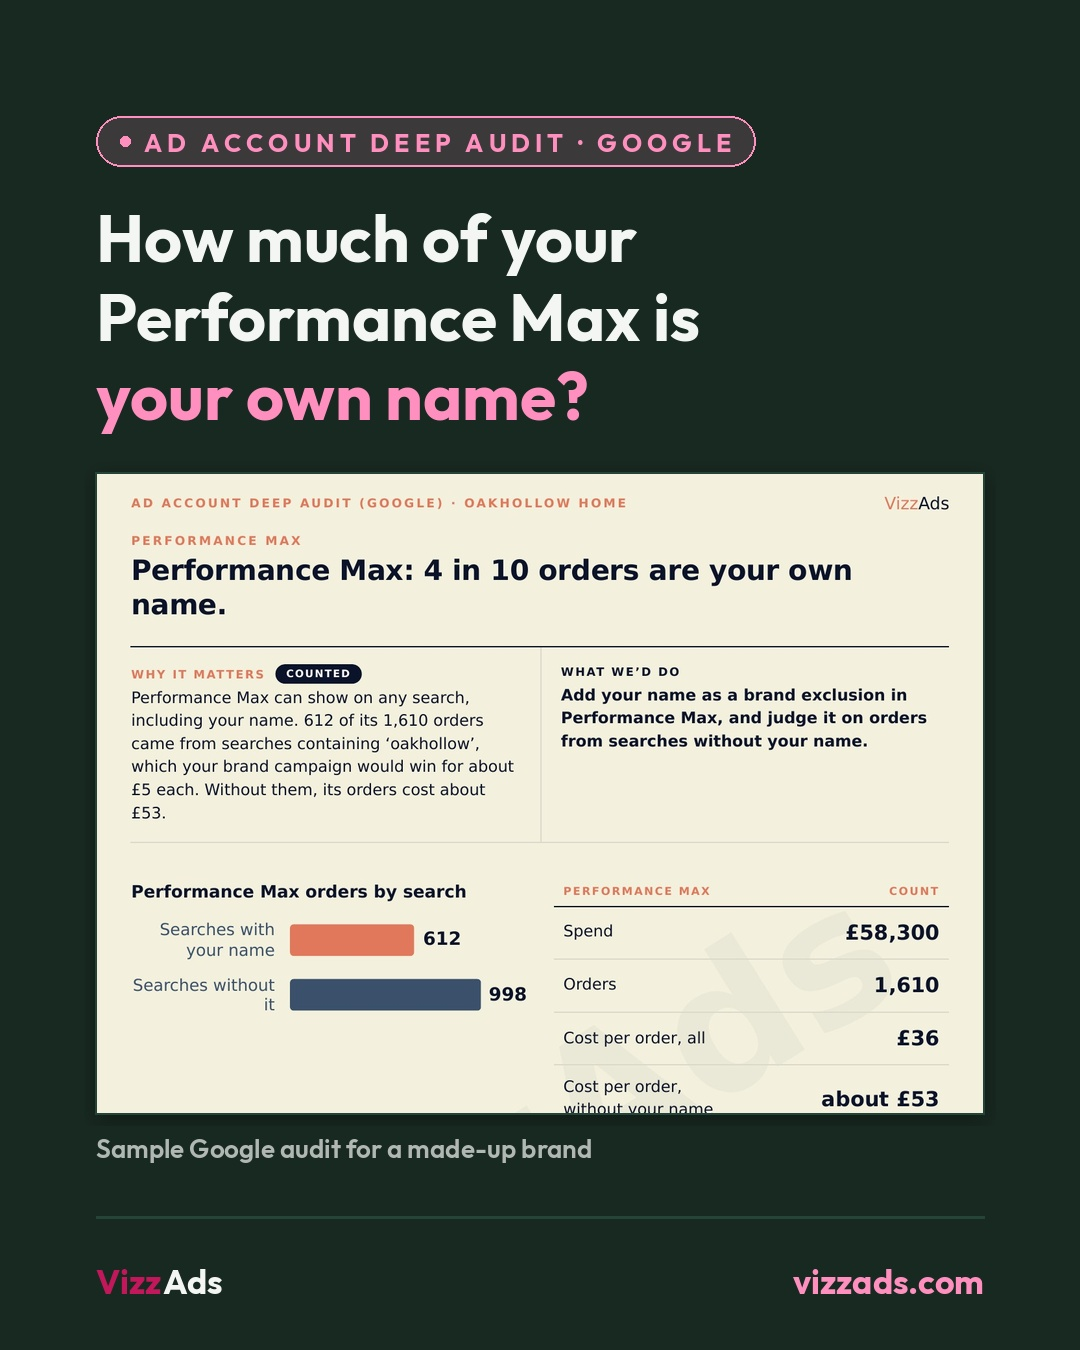
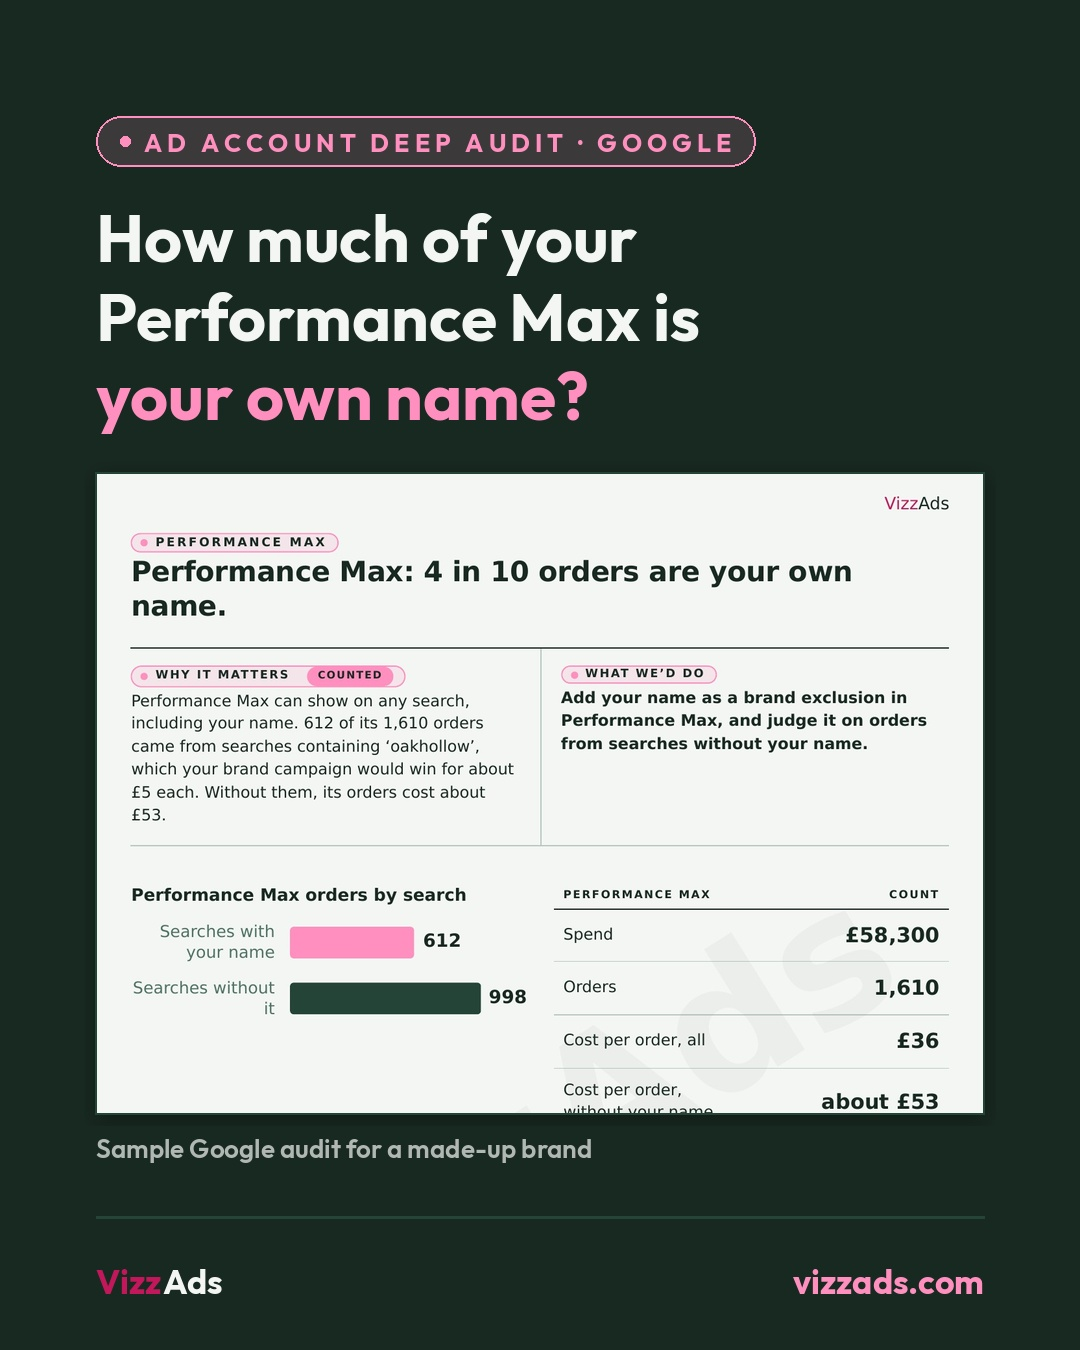
30 Nov and 4 Dec: sample report pictures swapped for the new-colour v2 samples
Claude-Session: https://claude.ai/code/session_013sqAKa6H7mk5yCfZBxaW9u

diff --git a/tools/cards/build_google.py b/tools/cards/build_google.py
@@ -36,7 +36,7 @@ card(p % 2, "navy", "WHAT'S IN IT",
 p = R + "2026-11-30-google-deep-audit/30nov-google-deep-audit-%d.jpg"
 showcase(p % 1, "navy", "AD ACCOUNT DEEP AUDIT · GOOGLE",
          ["How much of your", "Performance Max is"], coral_last="your own name?",
-         shot=S + "hi_da-05.jpg", crop=(0.04, 0.03, 0.96, 0.50),
+         shot=S + "hi_da-05-v2.jpg", crop=(0.04, 0.03, 0.96, 0.50),
          caption="Sample Google audit for a made-up brand")
 card(p % 2, "cream", "THE GOOGLE DEEP AUDIT",
      ["Each campaign judged"], coral_last="on its own job.",
@@ -76,7 +76,7 @@ card(p % 2, "navy", "START HERE",
 p = R + "2026-12-04-inside-the-check/04dec-inside-the-check-%d.jpg"
 showcase(p % 1, "navy", "INSIDE A FREE CHECK",
          ["Meta and Google,"], coral_last="one free check.",
-         shot=[S + "competitor-ad-check-both-cover.jpg", S + "competitor-ad-check-google-2-gaps.jpg"],
+         shot=[S + "competitor-ad-check-both-cover-v2.jpg", S + "competitor-ad-check-google-2-gaps-v2.jpg"],
          caption="Sample check for a made-up brand")
 card(p % 2, "cream", "WHAT IT FOUND",
      ["Real brand,"], coral_last="real gaps.",
